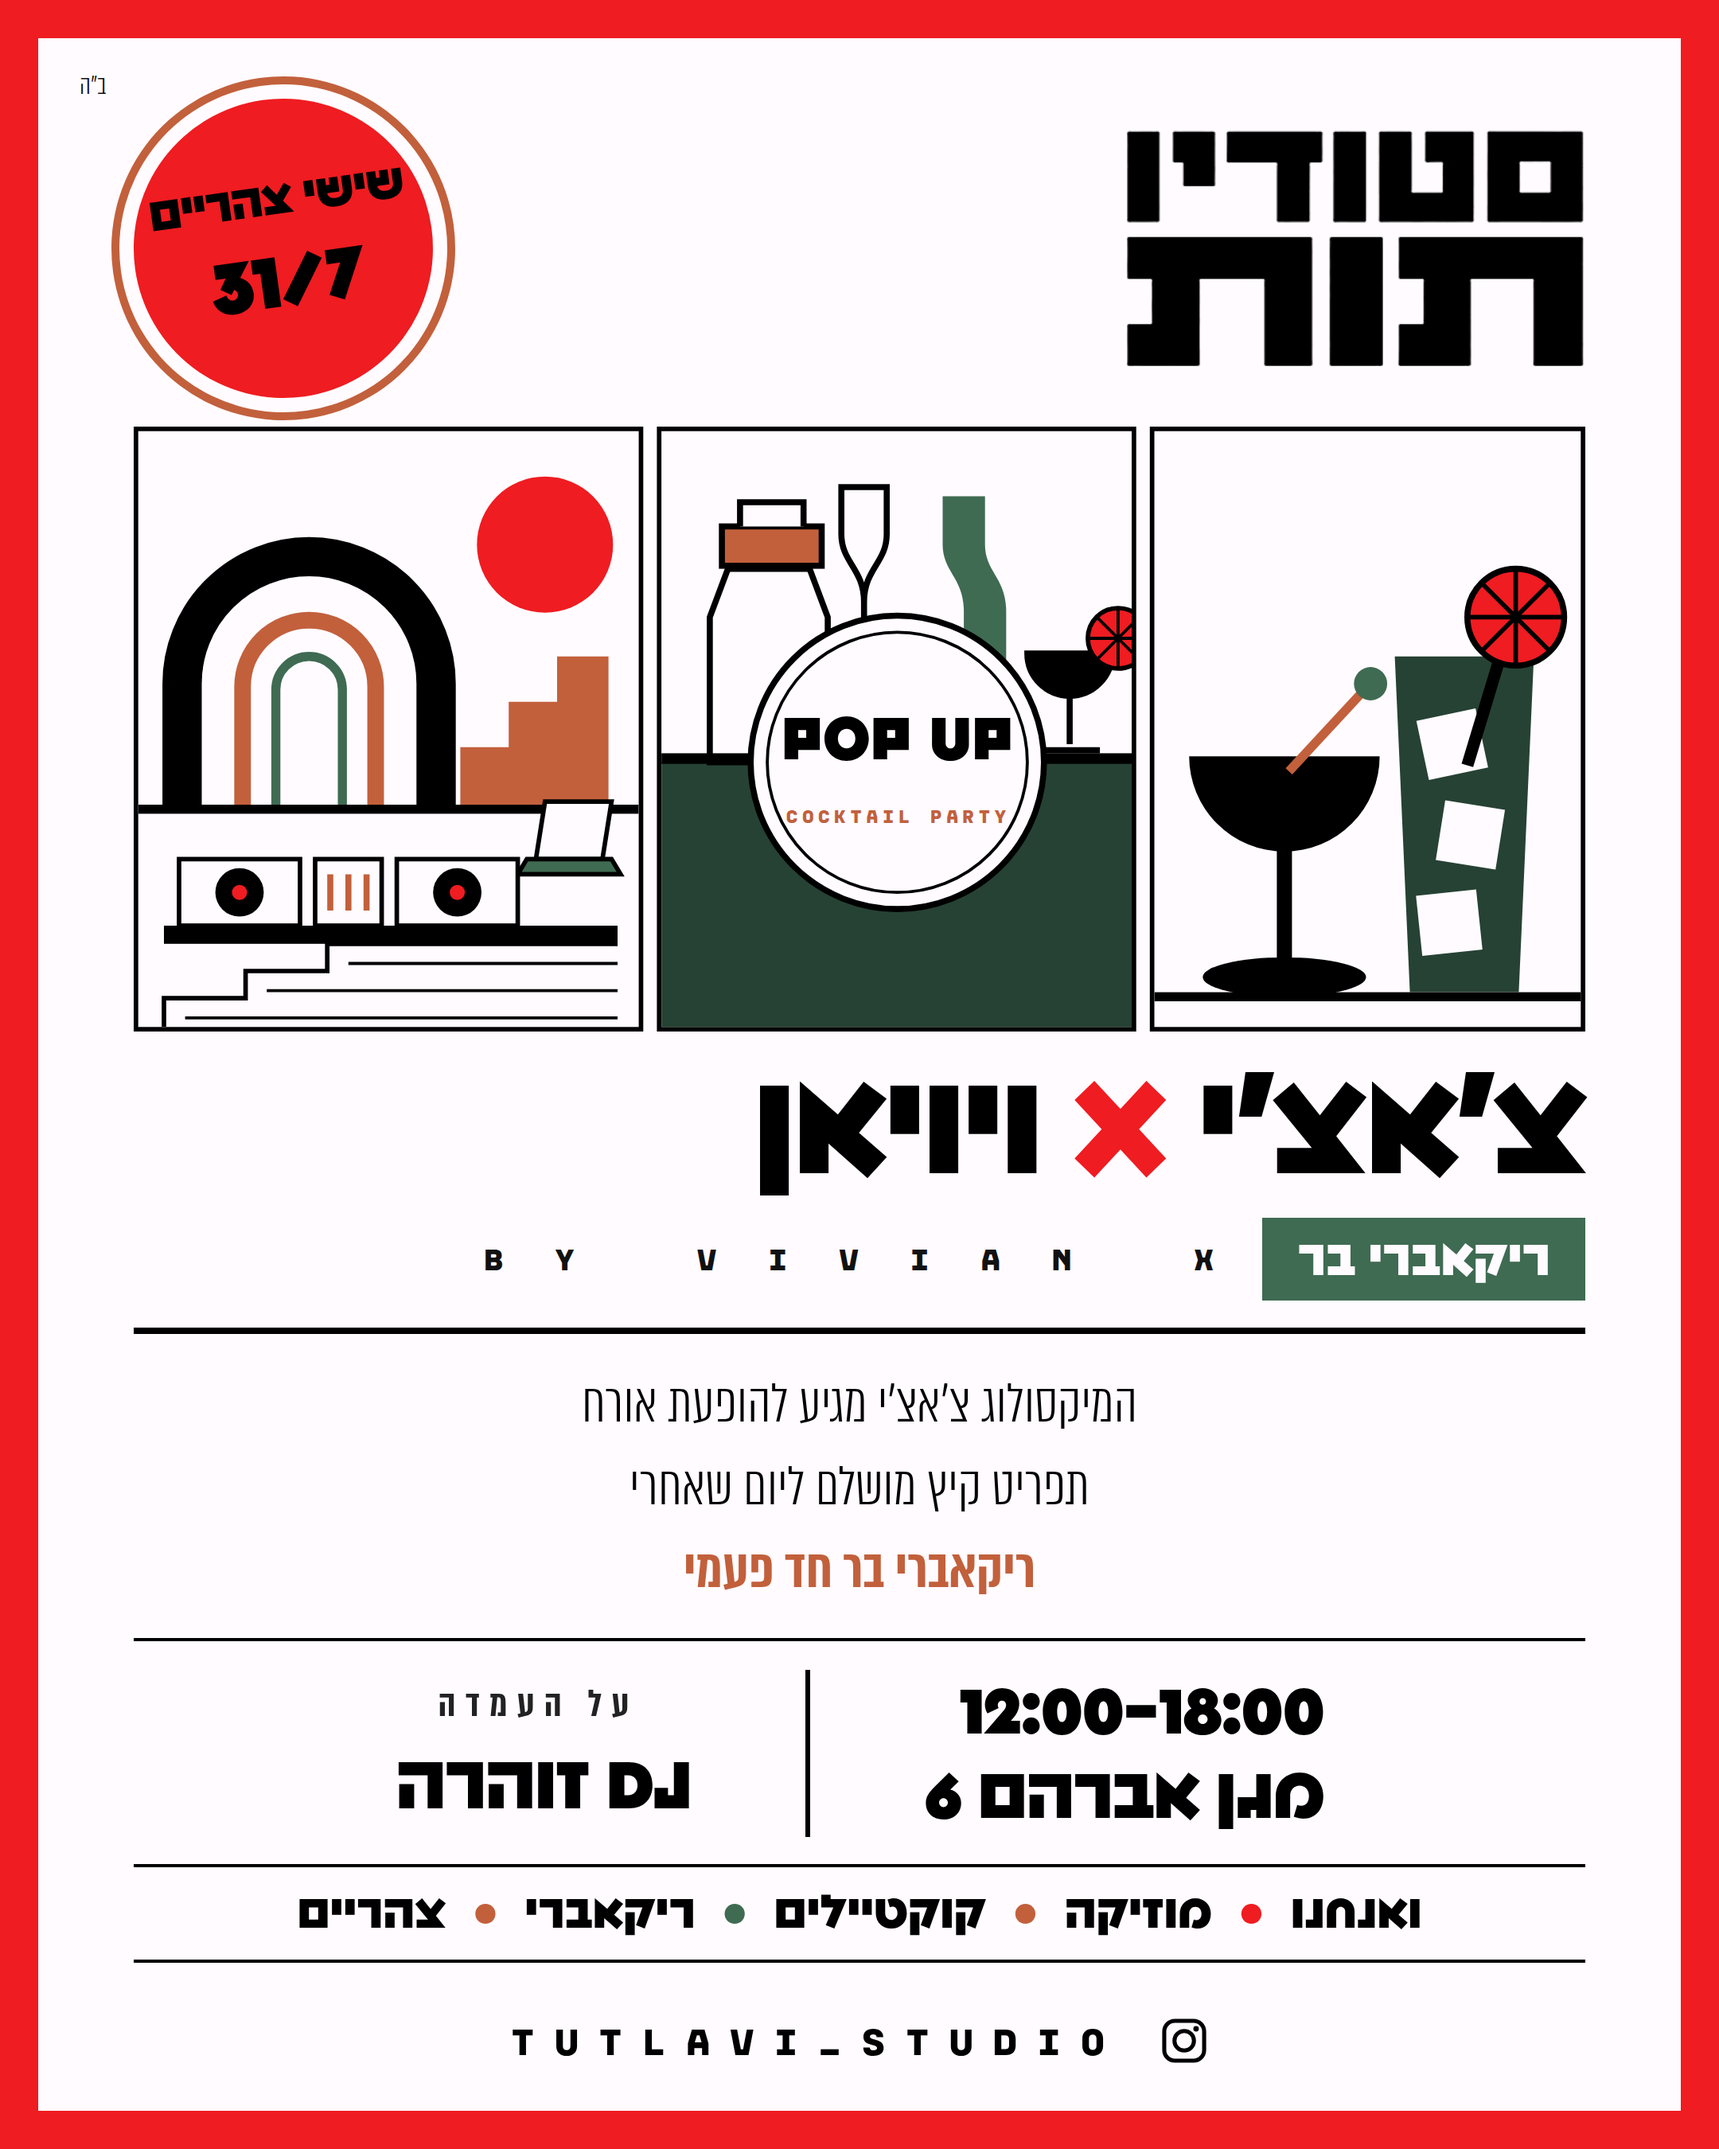
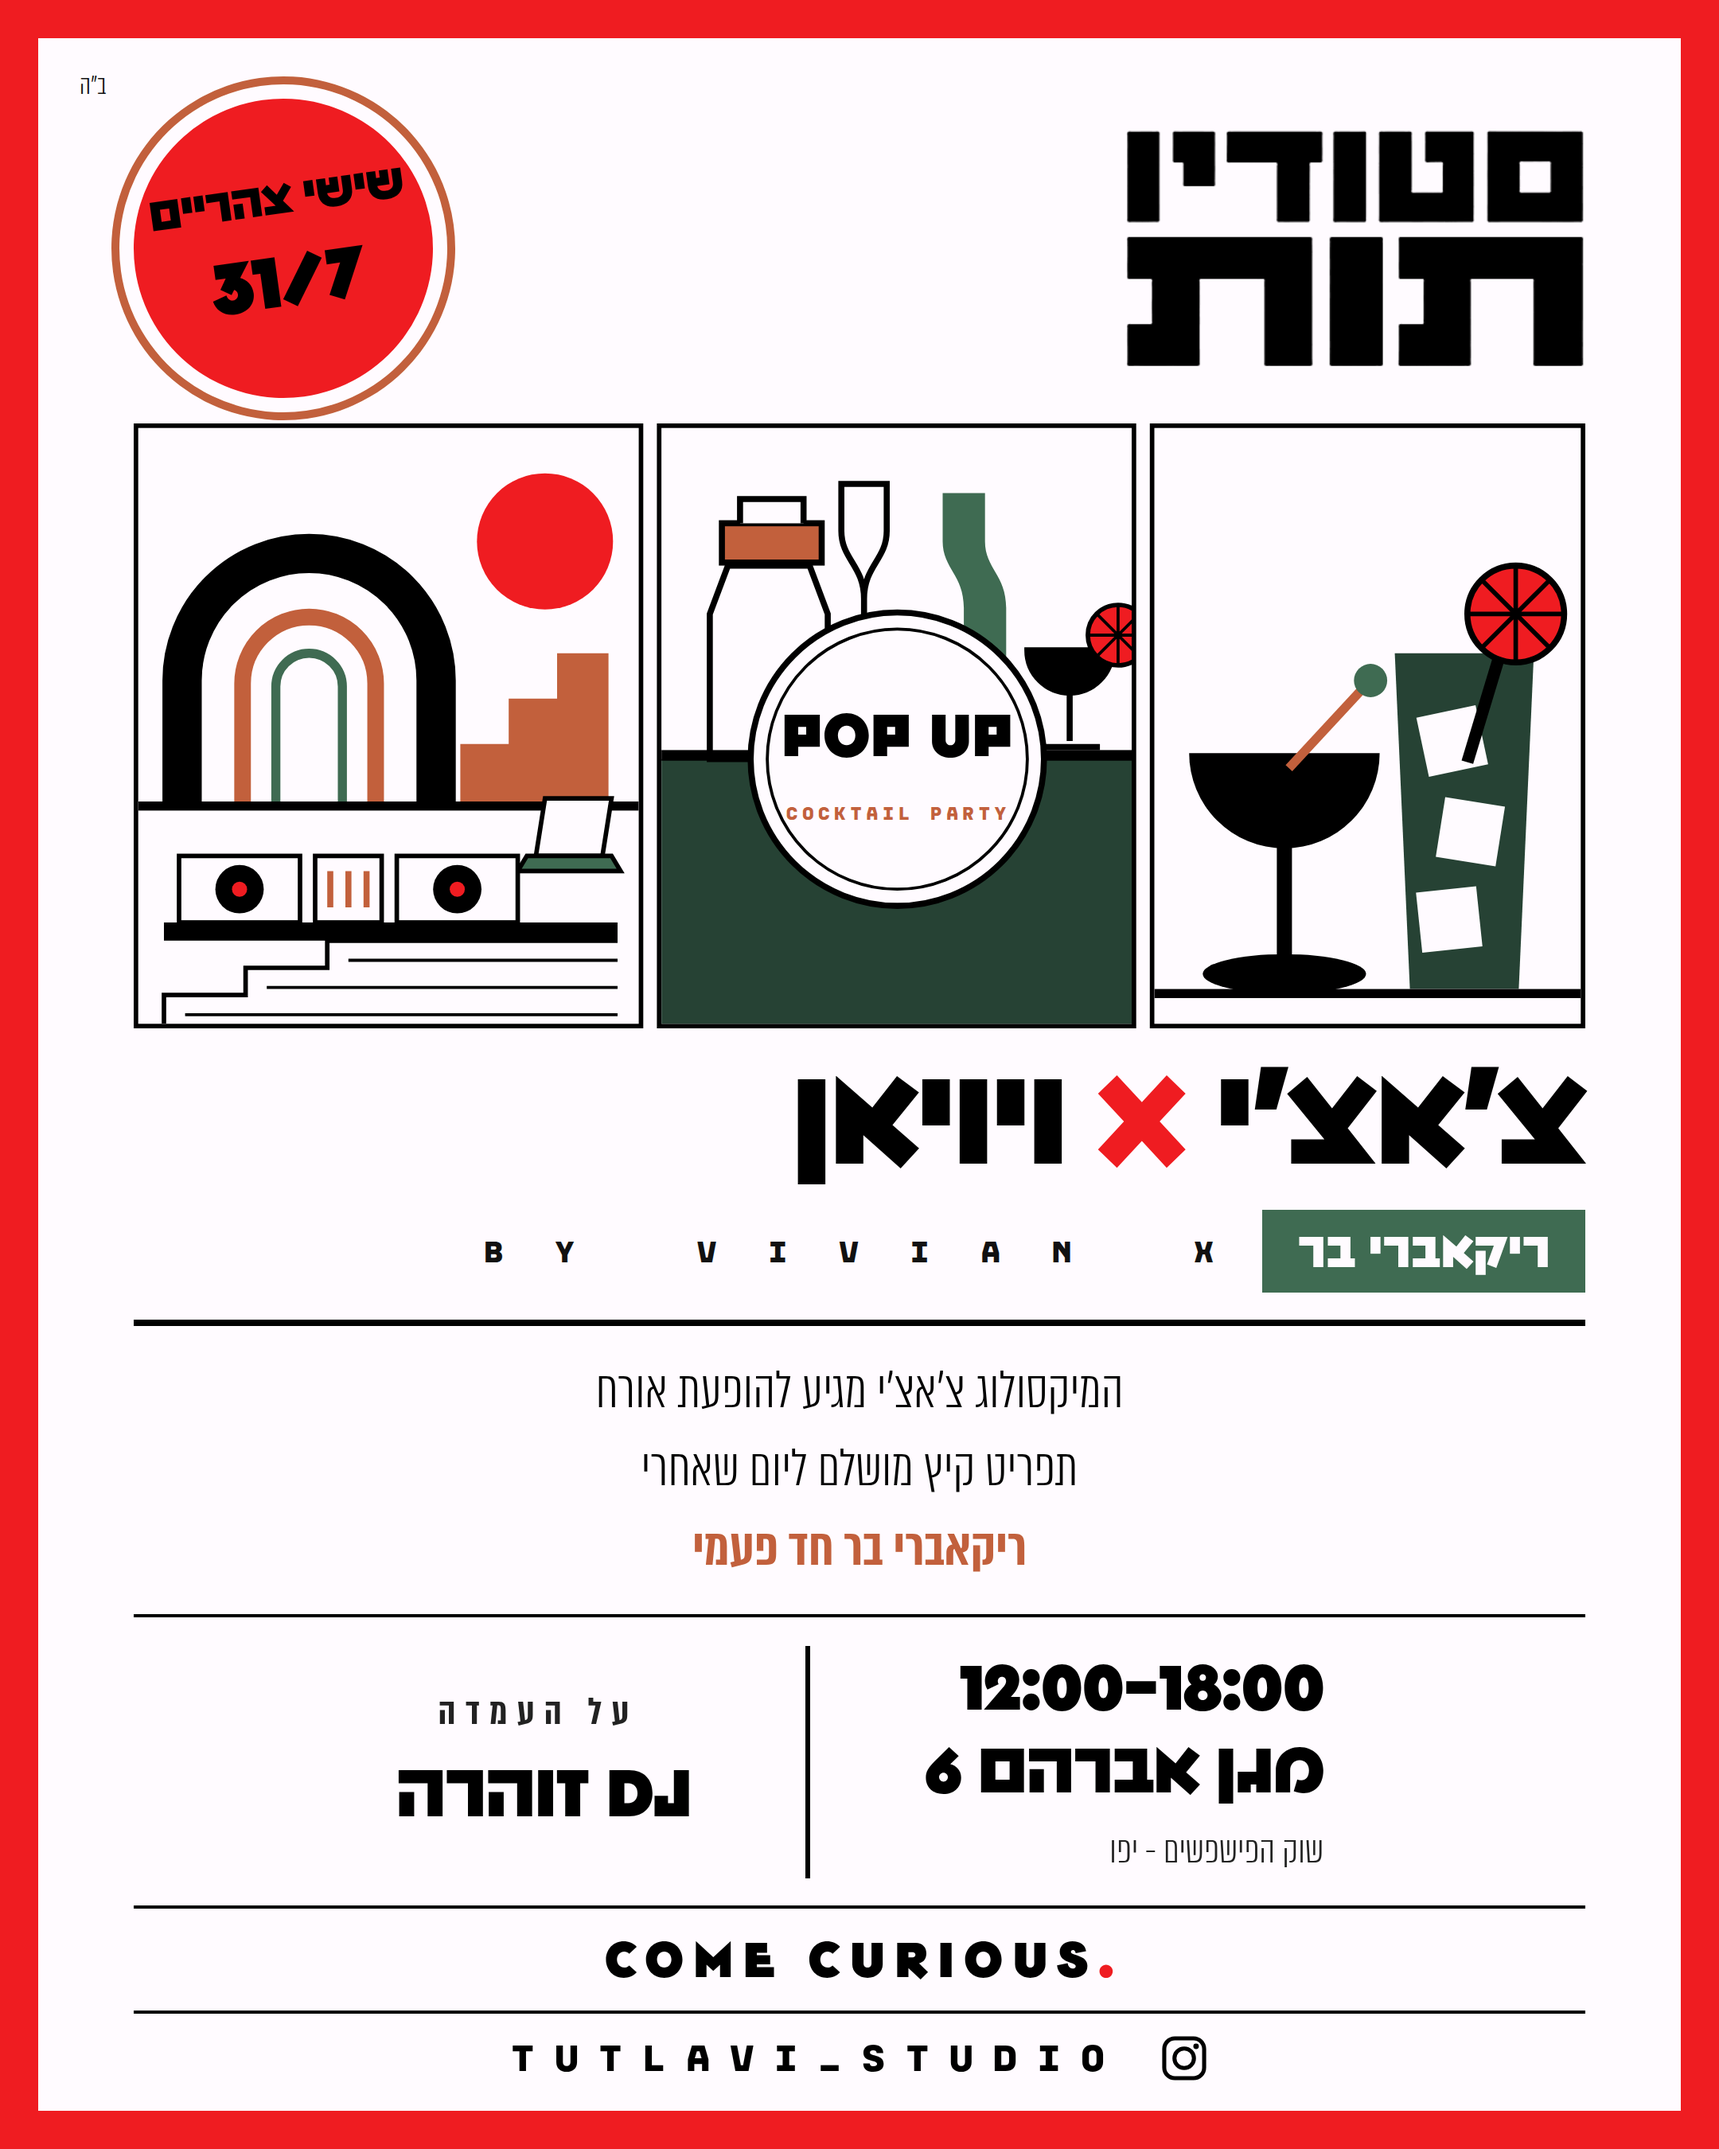
poster: replace the bullet row with 'Come Curious', restore the venue sub-line
- bullet row -> 'COME CURIOUS.' with the brand's red full stop
- address sub-line now reads שוק הפישפשים - יפו
- pin flex:0 0 auto on the stacked blocks so the rules stop collapsing
  when the content grows

Claude-Session: https://claude.ai/code/session_01AhfEANtPutTF2tRQEqNaFG

diff --git a/media/brand/poster-chachi.html b/media/brand/poster-chachi.html
@@ -21,7 +21,7 @@
   .bh{position:absolute;top:16px;left:26px;font:300 19px TutText;color:#111}
 
   /* ---- header ---- */
-  header{display:flex;align-items:center;justify-content:space-between}
+  header{flex:0 0 auto;display:flex;align-items:center;justify-content:space-between}
   .wordmark{width:290px;display:block}
   .daycircle{
     width:188px;height:188px;border-radius:50%;background:var(--red);
@@ -33,34 +33,34 @@
   .daycircle span{font:900 52px/1 Tut;color:#000;margin-top:10px;letter-spacing:-1px}
 
   /* ---- art ---- */
-  .art{margin:18px 0 0}
+  .art{flex:0 0 auto;margin:16px 0 0}
   .art svg{width:100%;display:block}
 
   /* ---- headline ---- */
-  h1{font:900 92px/.94 Tut;letter-spacing:-2px;text-align:right;margin-top:18px}
+  h1{flex:0 0 auto;font:900 88px/.94 Tut;letter-spacing:-2px;text-align:right;margin-top:18px}
   h1 i{color:var(--red);font-style:normal}
   .kicker{display:flex;align-items:center;gap:22px;margin-top:13px}
   .tag{background:var(--olive);color:var(--paper);font:900 32px/1 Tut;padding:10px 22px}
   .lat{font:400 22px/1 TutMono;letter-spacing:8px;color:#111}
 
-  .rule{height:4px;background:#000;margin-top:17px}
+  .rule{flex:0 0 auto;height:4px;background:#000;margin-top:17px}
   .rule.thin{height:2px}
 
-  .lede{font:300 40px/1.3 TutText;text-align:center;margin:18px 0 0}
+  .lede{flex:0 0 auto;font:300 38px/1.3 TutText;text-align:center;margin:16px 0 0}
   .lede em{font-weight:600;font-style:normal}
   .lede b{color:var(--clay);font-weight:600}
 
   /* ---- details ---- */
-  .details{display:flex;align-items:center;justify-content:center;gap:72px;margin-top:18px}
+  .details{flex:0 0 auto;display:flex;align-items:center;justify-content:center;gap:72px;margin-top:18px}
   .col-when{text-align:right;padding-left:72px;border-left:3px solid #000}
   .col-when .big{font:900 46px/1.14 Tut;letter-spacing:-1px}
+  .col-when .sub{font:300 27px/1.3 TutText;margin-top:6px;color:#222}
   .col-who{display:flex;flex-direction:column;align-items:center;gap:14px;text-align:center}
   .col-who .lbl{font:600 27px/1 TutText;letter-spacing:6px;color:#222;padding-right:6px}
   .col-who .dj{font:900 48px/1 Tut;letter-spacing:-1px}
 
-  .bullets{font:900 30px/1 Tut;text-align:center;padding:14px 0}
-  .bullets i{color:var(--red);font-style:normal;padding:0 10px}
-  .bullets i.c{color:var(--clay)} .bullets i.o{color:var(--olive)}
+  .bullets{flex:0 0 auto;font:900 36px/1 Tut;text-align:center;padding:14px 0;letter-spacing:6px}
+  .bullets i{color:var(--red);font-style:normal;letter-spacing:0}
 
   footer{margin-top:auto;display:flex;align-items:center;justify-content:center;gap:13px;padding-top:12px}
   footer svg{width:32px;height:32px}
@@ -208,6 +208,7 @@
     <div class="col-when">
       <div class="big" dir="ltr">12:00-18:00</div>
       <div class="big">מגן אברהם 6</div>
+      <div class="sub">שוק הפישפשים - יפו</div>
     </div>
     <div class="col-who">
       <div class="lbl">על העמדה</div>
@@ -216,7 +217,7 @@
   </div>
 
   <div class="rule thin"></div>
-  <div class="bullets">ואנחנו <i>•</i> מוזיקה <i class="c">•</i> קוקטיילים <i class="o">•</i> ריקאברי <i class="c">•</i> צהריים</div>
+  <div class="bullets" dir="ltr">Come Curious<i>.</i></div>
   <div class="rule thin" style="margin-top:0"></div>
 
   <footer>
